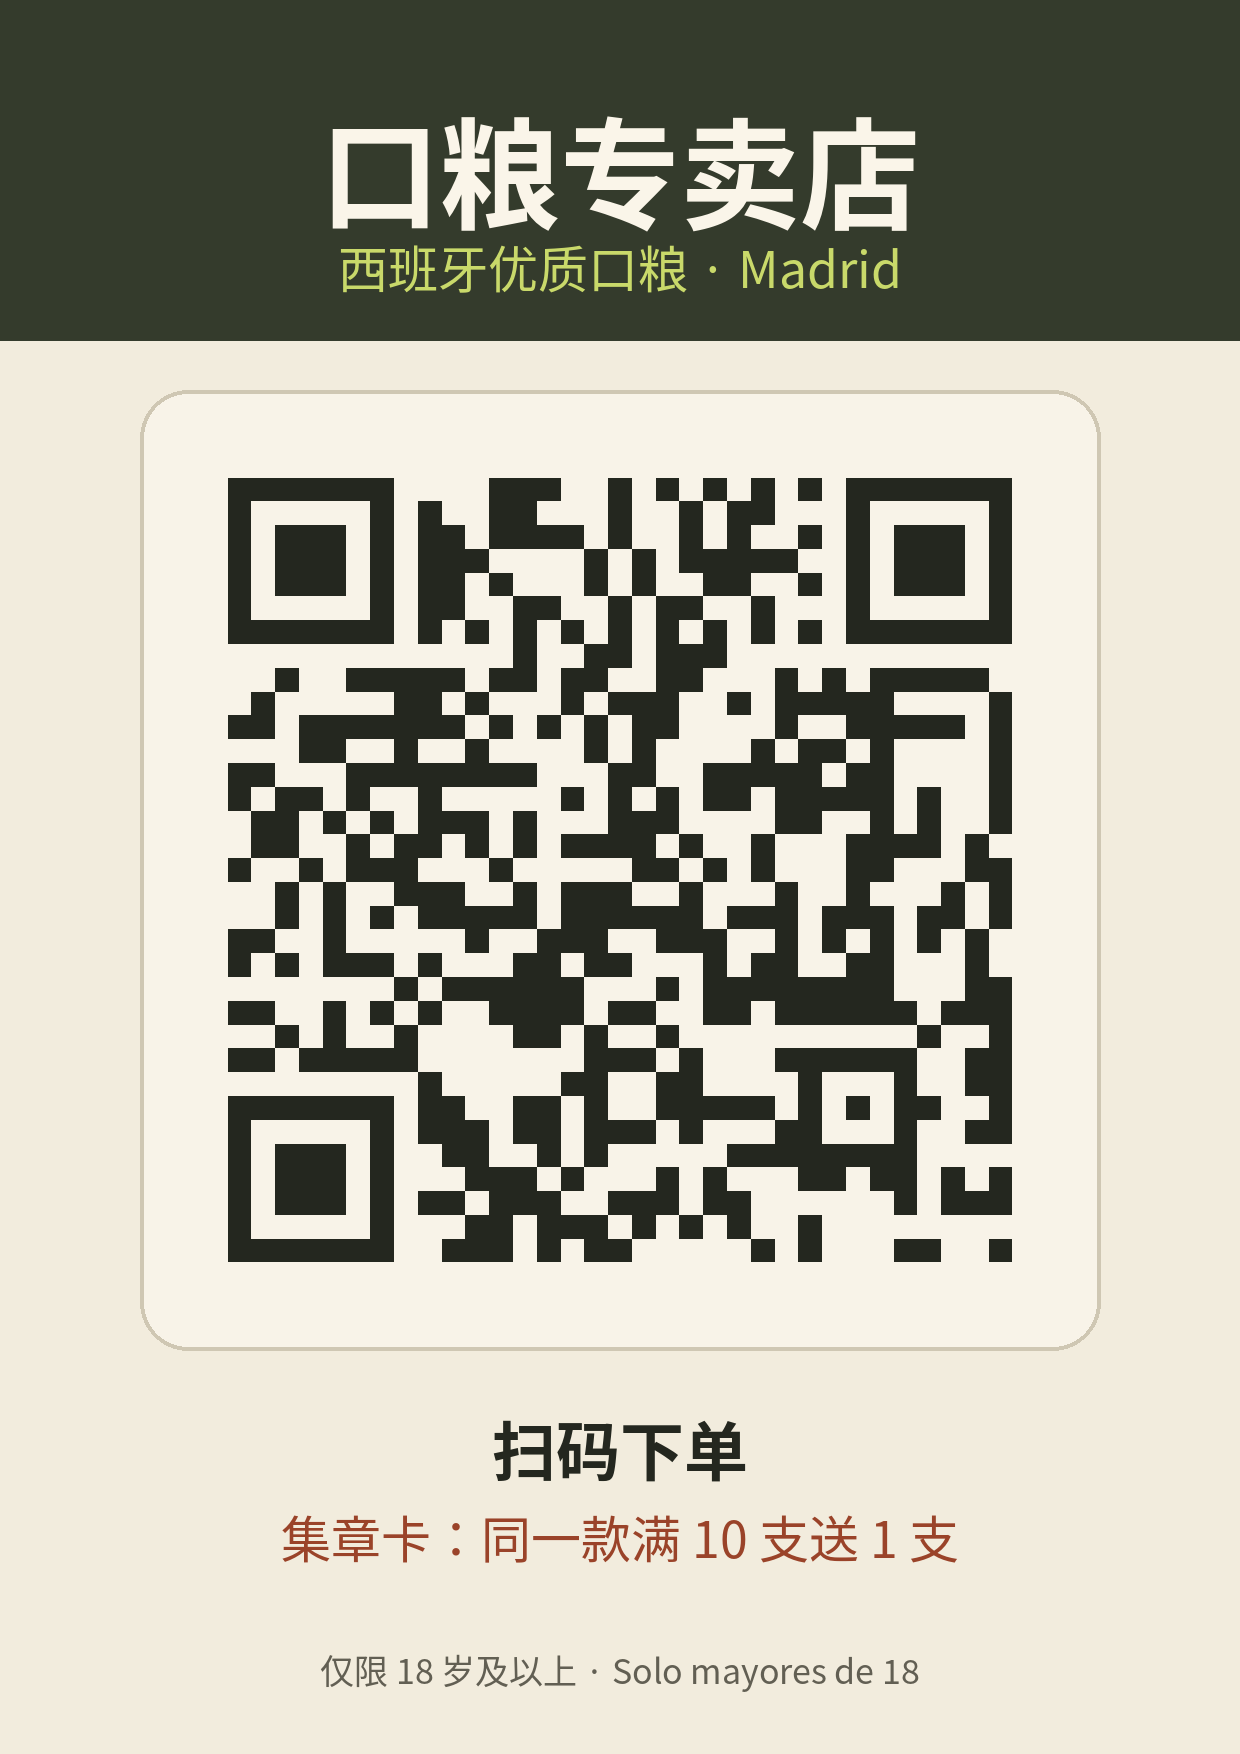
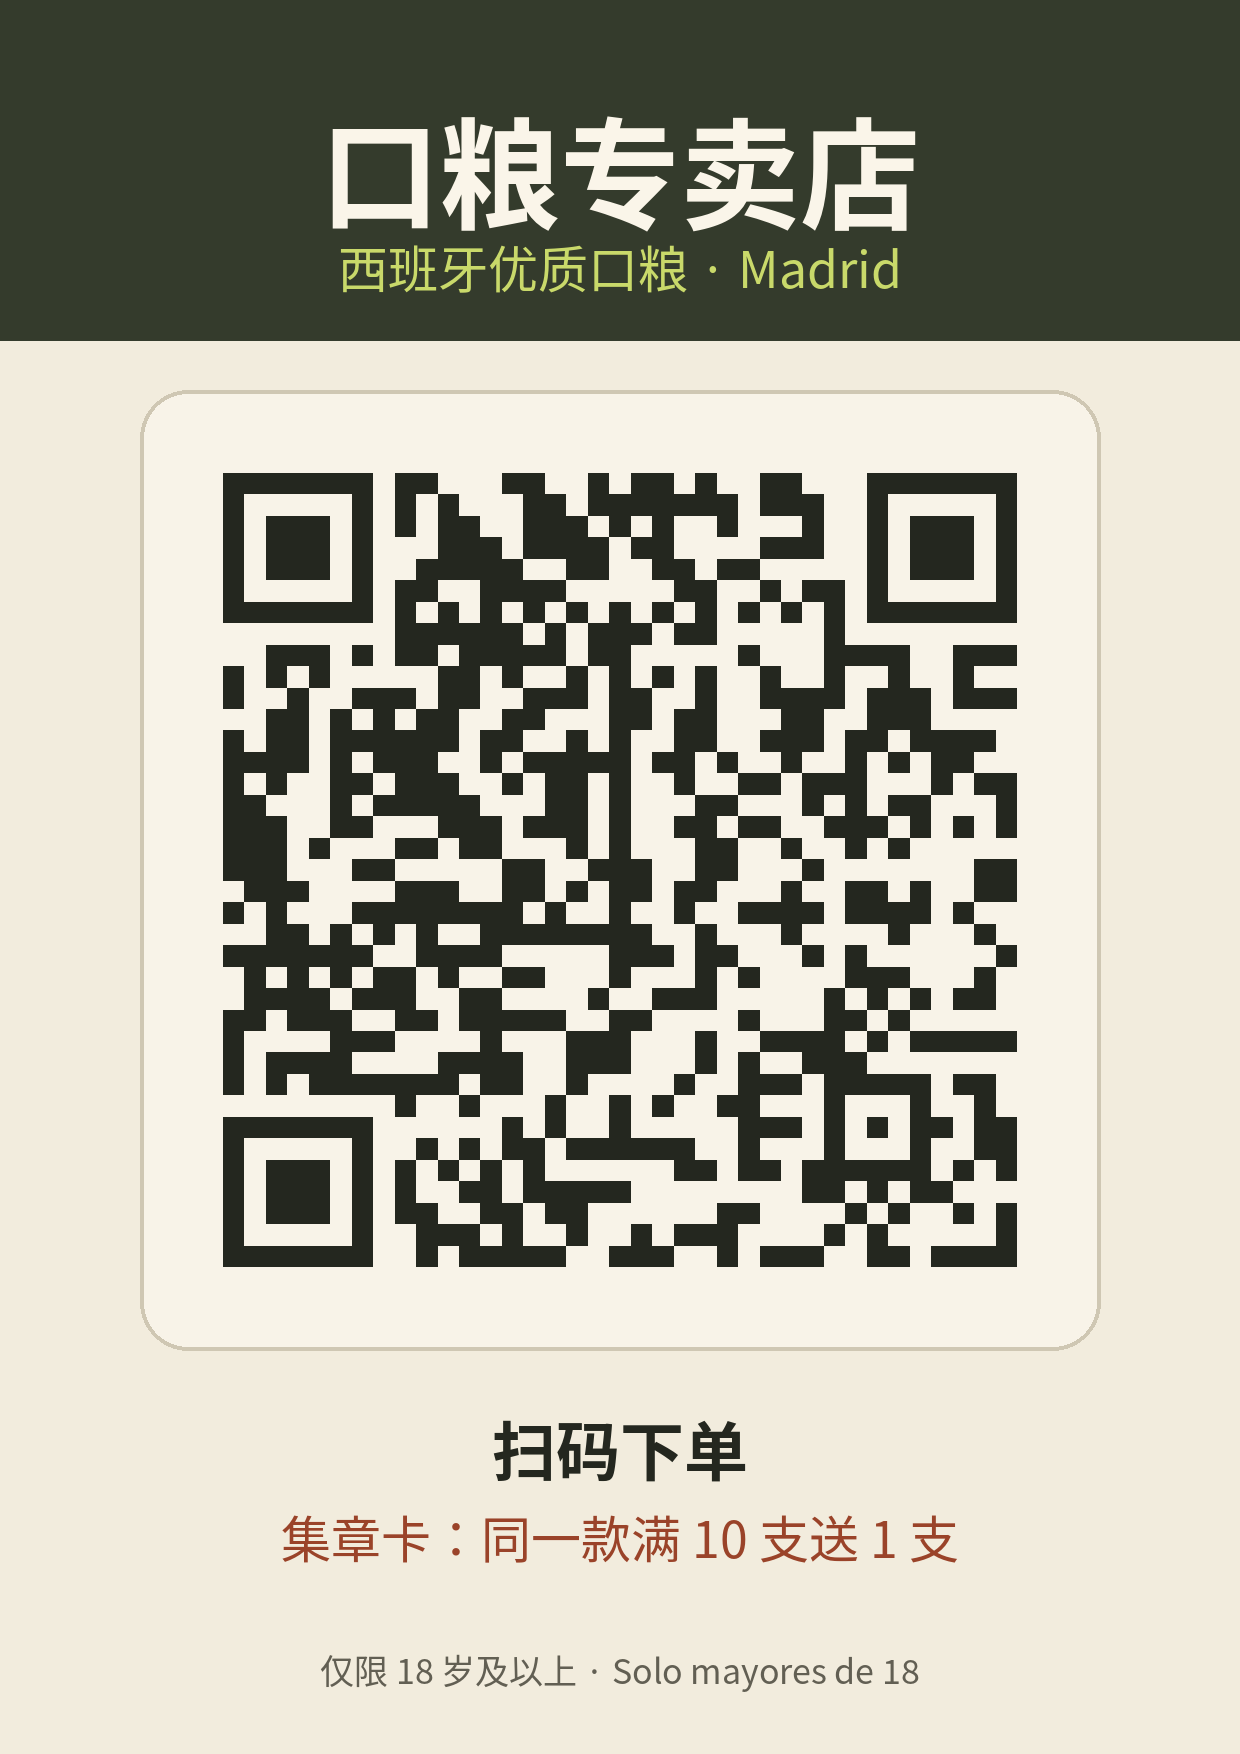
访客进站发 Telegram 通知（标出扫二维码 / 来源 / 城市 / 设备 / 会员）；二维码加 ?from=qr

Changed region(s): [[0.1532, 0.2463, 0.8274, 0.7389]]

diff --git a/index.html b/index.html
@@ -9,7 +9,7 @@
 <link rel="preconnect" href="https://fonts.googleapis.com">
 <link rel="preconnect" href="https://fonts.gstatic.com" crossorigin>
 <link rel="preload" as="script" href="https://cdnjs.cloudflare.com/ajax/libs/three.js/r128/three.min.js" integrity="sha512-dLxUelApnYxpLt6K2iomGngnHO83iUvZytA3YjDUCjT0HDOHKXnVYdf3hU4JjM8uEhxf9nD1/ey98U3t2vZ0qQ==" crossorigin="anonymous">
-<meta http-equiv="Content-Security-Policy" content="default-src 'self'; script-src 'sha256-6XSwWo4DakkIrWTac1WLTG/YnLKRmNSfC3rSjOG/5nc=' https://cdnjs.cloudflare.com; style-src 'self' 'unsafe-inline' https://fonts.googleapis.com; font-src 'self' https://fonts.gstatic.com; img-src 'self' data: blob:; connect-src 'self'; object-src 'none'; base-uri 'self'; form-action 'self'">
+<meta http-equiv="Content-Security-Policy" content="default-src 'self'; script-src 'sha256-bwRRknW8k6VAWclMk5rlRa+Z4k5/F2Pt+osIv1aWRwc=' https://cdnjs.cloudflare.com; style-src 'self' 'unsafe-inline' https://fonts.googleapis.com; font-src 'self' https://fonts.gstatic.com; img-src 'self' data: blob:; connect-src 'self'; object-src 'none'; base-uri 'self'; form-action 'self'">
 <!-- the web fonts are added by util.js, so they don't hold up the first paint (the system font shows until they arrive) -->
 <style>
 /* Brand tokens carried over from deploy-preview-6 styles.css */
@@ -3716,6 +3716,17 @@ function createClearance({ products, onShop, onDone }) {
   }, 3000);
 
   $('cartBtn').addEventListener('click', () => checkout.open());
+
+  // ---------- visit notice to the shop's Telegram: once per visit (again after 30 minutes away) ----------
+  (() => {
+    const q = new URLSearchParams(location.search), from = q.get('from') === 'qr' ? 'qr' : '';
+    // tidy the address bar so a shared link doesn't count as a scan
+    if (from) history.replaceState(null, '', location.pathname + location.hash);
+    let last = 0;
+    try { last = +localStorage.getItem('vs3d-visit') || 0; localStorage.setItem('vs3d-visit', Date.now()); } catch (e) { /* private mode */ }
+    if (Date.now() - last < 30 * 60e3 && !from) return;
+    setTimeout(() => account.api('visit', { method: 'POST', body: { from, ref: document.referrer } }).catch(() => {}), 1500);
+  })();
 
   // ---------- full card: a small notice "集满 10 个章了" with a button straight to the cart ----------
   // once per card per visit; waits until the opening posters are closed

diff --git a/site/src/app.js b/site/src/app.js
@@ -413,6 +413,17 @@
 
   $('cartBtn').addEventListener('click', () => checkout.open());
 
+  // ---------- visit notice to the shop's Telegram: once per visit (again after 30 minutes away) ----------
+  (() => {
+    const q = new URLSearchParams(location.search), from = q.get('from') === 'qr' ? 'qr' : '';
+    // tidy the address bar so a shared link doesn't count as a scan
+    if (from) history.replaceState(null, '', location.pathname + location.hash);
+    let last = 0;
+    try { last = +localStorage.getItem('vs3d-visit') || 0; localStorage.setItem('vs3d-visit', Date.now()); } catch (e) { /* private mode */ }
+    if (Date.now() - last < 30 * 60e3 && !from) return;
+    setTimeout(() => account.api('visit', { method: 'POST', body: { from, ref: document.referrer } }).catch(() => {}), 1500);
+  })();
+
   // ---------- full card: a small notice "集满 10 个章了" with a button straight to the cart ----------
   // once per card per visit; waits until the opening posters are closed
   const told = new Set();

diff --git a/HANDOFF.md b/HANDOFF.md
@@ -90,6 +90,17 @@ ONLY=d sh qa/run.sh node qa/clearance.mjs`。
 - 卡满 10 个章后，购物车里只出现「领取赠品」按钮，不会自动加一支。顾客点了才加进这单（可以选口味、也可以点「这次不领」）；不领的话章保留，下次再领。
 - 集满提示的「去领取」只是打开购物车，顾客自己点领取。
 
+## 访客通知（2026-10-22，上线后加的）
+
+- 有人打开网站，店家 Telegram 收到一条：「👀 有人进网站 · 时间 / 来源 / 城市 · 设备 / 游客或会员名字」。
+  来源会认出：📷 扫二维码、WhatsApp 链接、Instagram、Facebook、微信、TikTok、Google、直接打开等。
+- 同一台手机 30 分钟内重复打开不再通知（扫码进来的每次都算）；搜索引擎和各种爬虫 / 链接预览不通知；
+  每个 IP 每分钟最多 5 次（Netlify 限流）。消息格式是固定的，访客没法往你的 Telegram 塞文字。
+- 代码：`netlify/functions/visit.mjs`（服务器）+ `site/src/app.js` 最后一段（页面）。
+- 想关掉：Netlify 环境变量加 `VISIT_NOTIFY=off`，重新部署。
+- 二维码改成 `https://vapeshop2026.netlify.app/?from=qr`（`qrcode/` 里三张都重新生成了，扫码进来会标「扫二维码」）。之前打印的旧码照样能用，只是会显示成「直接打开」。
+- 测试：`sh qa/run.sh node qa/visit.mjs`。
+
 ## 页面顺序（2026-10-22）
 
 - 首页从上到下：鸭嘴兽 Dash → 海报墙（「挂在墙上的口粮」+ 款式按钮）→ IceMax 清仓 → 集章卡 → 尼古丁警告 → 配送。
